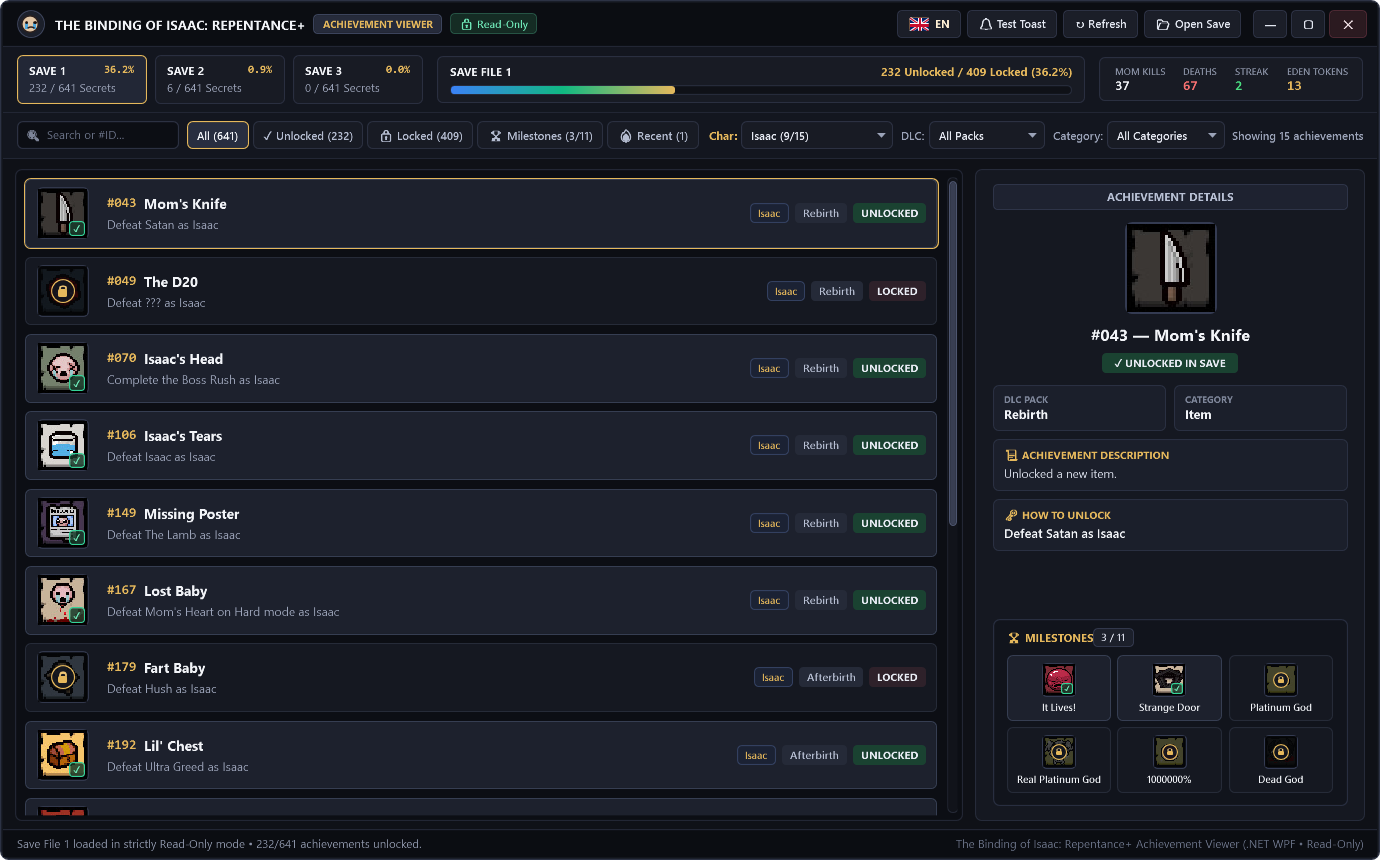
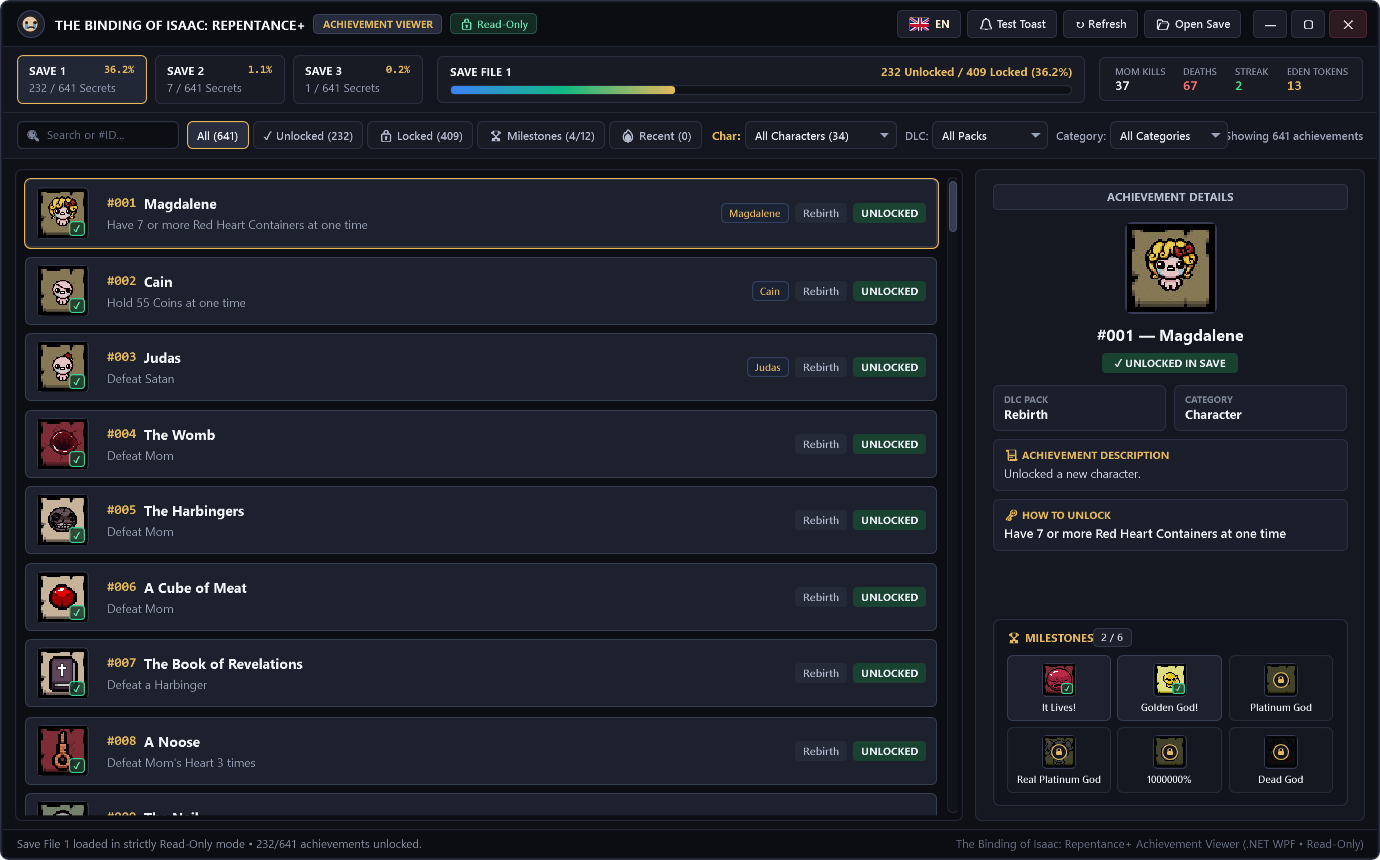
Release v1.4.1: Golden God! milestone cabinet, instant ScrollIntoView fix & PS5 trophy chime

diff --git a/MainWindow.xaml.cs b/MainWindow.xaml.cs
@@ -318,7 +318,7 @@ namespace IsaacRepentancePlusAchievements
             string cacheDir = Path.Combine(
                 Environment.GetFolderPath(Environment.SpecialFolder.LocalApplicationData),
                 "IsaacRepentancePlusAchievements",
-                "v1.4.0");
+                "v1.4.1");
 
             string cachedJson = Path.Combine(cacheDir, "Data", "achievements.json");
             if (File.Exists(cachedJson))

diff --git a/README.md b/README.md
@@ -40,7 +40,7 @@
   - When you unlock a new secret while playing, a non-intrusive **bottom-right desktop toast notification (`UnlockToastWindow`)** slides in without stealing game focus, stays for 5 seconds, and fades out automatically.
   - Newly unlocked secrets are highlighted with a **`🔥 NEW`** badge and listed under the **`🔥 Recent`** tab.
 - 📜 **Detailed Unlock Guide ("SECRET FOUND!" Panel & Milestone Trophy Cabinet):**
-  - Displays the in-game description, clear **How to Unlock** conditions (in both English and Turkish), and a 3×2 **Milestone Trophy Cabinet** (*It Lives!, Strange Door, Platinum God, Real Platinum God, 1000000%, Dead God*).
+  - Displays the in-game description, clear **How to Unlock** conditions (in both English and Turkish), and a 3×2 **Milestone Trophy Cabinet** (*It Lives!, Golden God!, Platinum God, Real Platinum God, 1000000%, Dead God*).
 - 📊 **Live In-Game Save Statistics:**
   - Displays real-time counters from your save file: *Mom Kills, Deaths, Win Streak, Best Streak, Donation Machine Coins, Greed Machine Coins, Eden Tokens, Collectibles Seen,* and *Challenges Completed*.
 - 🎨 **Custom Isaac-Themed UI:**
@@ -55,8 +55,8 @@ You don't need to clone the repository or keep external `Data`/`Assets` folders 
 
 | Download Package | Size | Description |
 | :--- | :---: | :--- |
-| [**`IsaacAchievementViewer-v1.4.0-Standalone.exe`**](https://github.com/ToprakEsen/The-Binding-of-Isaac-Repentance-Achievement-Viewer/releases/download/v1.4.0/IsaacAchievementViewer-v1.4.0-Standalone.exe) | ~70 MB | **No `.NET` required.** Fully self-contained single-file executable with the .NET 8 runtime and all 641 achievement icons embedded inside. |
-| [**`IsaacAchievementViewer-v1.4.0-Non-Standalone.exe`**](https://github.com/ToprakEsen/The-Binding-of-Isaac-Repentance-Achievement-Viewer/releases/download/v1.4.0/IsaacAchievementViewer-v1.4.0-Non-Standalone.exe) | ~2 MB | **Lightweight version (Non-Standalone).** Uses Windows' built-in `.NET Framework 4.8` with all 641 achievement icons and database embedded inside a single `.exe`. |
+| [**`IsaacAchievementViewer-v1.4.1-Standalone.exe`**](https://github.com/ToprakEsen/The-Binding-of-Isaac-Repentance-Achievement-Viewer/releases/download/v1.4.1/IsaacAchievementViewer-v1.4.1-Standalone.exe) | ~70 MB | **No `.NET` required.** Fully self-contained single-file executable with the .NET 8 runtime and all 641 achievement icons embedded inside. |
+| [**`IsaacAchievementViewer-v1.4.1-Non-Standalone.exe`**](https://github.com/ToprakEsen/The-Binding-of-Isaac-Repentance-Achievement-Viewer/releases/download/v1.4.1/IsaacAchievementViewer-v1.4.1-Non-Standalone.exe) | ~2 MB | **Lightweight version (Non-Standalone).** Uses Windows' built-in `.NET Framework 4.8` with all 641 achievement icons and database embedded inside a single `.exe`. |
 
 ### Option 2: Build from Source
 If you want to compile the project from source on Windows using the built-in `.NET Framework MSBuild`:
